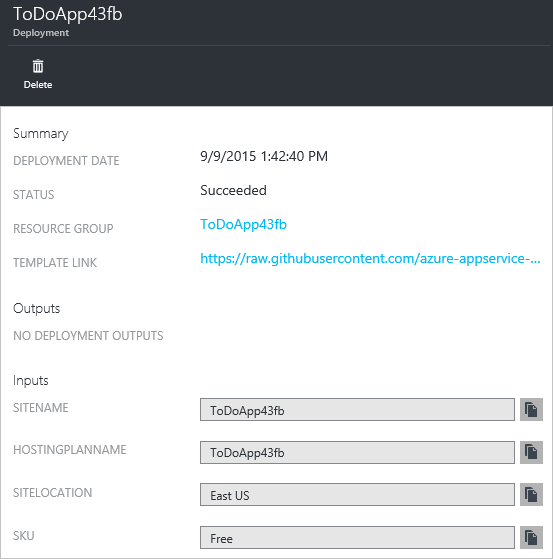
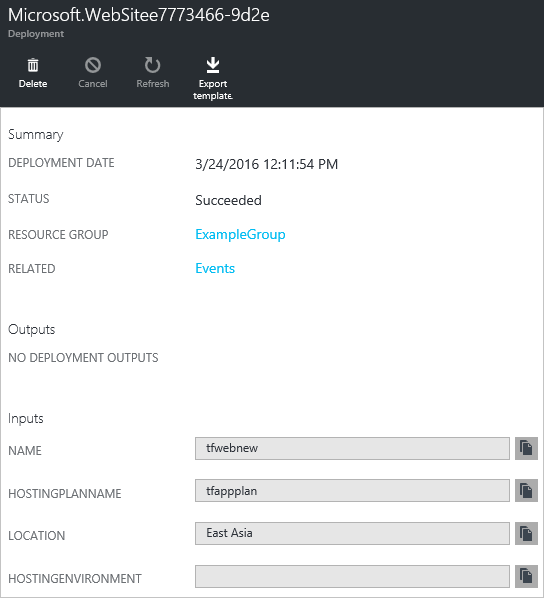
added export template to ARM portal

diff --git a/articles/azure-portal/resource-group-portal.md b/articles/azure-portal/resource-group-portal.md
@@ -1,10 +1,10 @@
 <properties 
 	pageTitle="Use Azure portal to manage Azure resources | Microsoft Azure" 
-	description="Group multiple resources as a logical group that becomes the lifecycle boundary for resources contained within it." 
+	description="Use Azure portal and Azure Resource Manage to deploy and manage your resources. Shows how to tag resources and view audit logs." 
 	services="azure-resource-manager,azure-portal" 
 	documentationCenter="" 
 	authors="tfitzmac" 
-	manager="wpickett" 
+	manager="timlt" 
 	editor=""/>
 
 <tags 
@@ -13,29 +13,26 @@
 	ms.tgt_pltfrm="na" 
 	ms.devlang="na" 
 	ms.topic="get-started-article" 
-	ms.date="02/11/2016" 
+	ms.date="03/24/2016" 
 	ms.author="tomfitz"/>
 
 
-# Using the Azure Portal to manage your Azure resources
+# Using the Azure Portal to deploy and manage your Azure resources
 
 ## Introduction
 
-Azure Resource Manager enables you to deploy and manage your solutions through resource groups. This topic provides an overview of how to use resource groups within the Azure portal. Typically, a resource group contains
-resources related to a specific application. For example, a group may contain a web app that hosts your public website, a SQL Database that stores relational data used
-by the site, and a Storage account that stores non-relational assets. Every resource in a resource group should share the same lifecycle. For more information about
-Resource Manager, see [Resource Manager overview](../resource-group-overview.md).
+This topic shows how to use the [Azure portal](https://portal.azure.com) with [Azure Resource Manager](../resource-group-overview.md) to deploy and manage your Azure resources.
 
 Currently, not every service supports the portal or Resource Manager. For those services, you will need to use
 the [classic portal](https://manage.windowsazure.com). For the status of each service, see [Azure portal availability chart](https://azure.microsoft.com/features/azure-portal/availability/).
 
 You can also manage resources through Azure PowerShell and Azure CLI. For more information about using those interfaces, see [Using Azure PowerShell with Azure Resource Manager](../powershell-azure-resource-manager.md) and
-[Use the Azure CLI for Mac, Linux, and Windows with Azure Resource Manager](../xplat-cli-azure-resource-manager.md).
+[Use the Azure CLI for Mac, Linux, and Windows with Azure Resource Manager](../xplat-cli-azure-resource-manager.md). For more information about deploying solutions through Visual Studio,
+see [Creating and deploying Azure resource groups through Visual Studio](../vs-azure-tools-resource-groups-deployment-projects-create-deploy.md).
 
+## Create resource group
 
-## Create resource group and resources
-
-If you need to create an empty resource group, you can select **New**, **Management**, and **Resource Group**.
+To create an empty resource group, select **New**, **Management**, and **Resource Group**.
 
 ![create empty resource group](./media/resource-group-portal/create-empty-group.png)
 
@@ -43,13 +40,28 @@ You give it a name and location, and, if necessary, select a subscription.
 
 ![set group values](./media/resource-group-portal/set-group-properties.png)
 
-When deploying your resources, you can choose to deploy them to the resource group you created. The following image shows how to create a new web app in an existing resource group.
+## Deploy resources
+
+After your resource group has been created, you can deploy resources to it. To start deployment, simply select **New** and the type of resource you would like to deploy.
+
+![deploy resource](./media/resource-group-portal/deploy-resource.png)
+
+If you do not see the type of resource you would like to deploy, you can search the marketplace for it.
+
+![search marketplace](./media/resource-group-portal/search-resource.png)
+
+Depending on the type of resource you have selected, you will have a collection of relevant properties to set before deployment. Those options are not shown here, as they vary based on resource type.
+For all types, you must select a destination resource group. The following image shows how to create a new web app and deploy it to the resource group you just created.
 
 ![create resource group](./media/resource-group-portal/select-existing-group.png)
 
 Alternatively, you can decide to create a new resource group when deploying your resources. Instead of selecting one of the existing resource groups in your subscription, select **New** and give the resource group a name.
 
 ![create new resource group](./media/resource-group-portal/select-new-group.png)
+
+Your deployment will begin. This could take a few minutes. When the deployment has finished, you will see a notification.
+
+![view notification](./media/resource-group-portal/view-notification.png)
 
 ## Browse resource groups
 
@@ -61,41 +73,38 @@ When you select a particular resource group, you see a resource group blade that
 
 ![resource group summary](./media/resource-group-portal/group-summary.png)
 
-The resource group blade also gives you a unified view of your billing and monitoring information for all the resources in the resource group.
+You can add more graphs and tables to the resource group blade by selecting **Add a section** below the summary.
 
-![monitoring and billing](./media/resource-group-portal/monitoring-billing.png)
+![add section](./media/resource-group-portal/add-section.png)
 
-## View your subscription and costs
+You are presented with a tile gallery to select the information you would like to include in the blade. The types of tiles that are displayed are filtered by the resource type. Selecting a different resource will
+change the available tiles.
 
-You can view information about your subscription and the rolled-up costs for all of your resources. Select **Subscriptions** and the subscription you want to see. You might only have one subscription to select.
+![add section](./media/resource-group-portal/tile-gallery.png)
 
-![subscription](./media/resource-group-portal/select-subscription.png)
+Drag the tile you need into the available spaces.
 
-Within the subscription blade, you will see a burn rate.
+![drag tile](./media/resource-group-portal/drag-tile.png)
 
-![burn rate](./media/resource-group-portal/burn-rate.png)
+After selecting **Done** at the top of the portal, your new view is part of the blade.
 
-And, a breakdown of costs by resource type.
+![show tile](./media/resource-group-portal/show-lens.png)
 
-![resource cost](./media/resource-group-portal/cost-by-resource.png)
-
-## Customizing the interface
-
-For quick access to the resource group summary, you can pin the blade to your Startboard.
+For quick access to a resource group, you can pin the blade to your dashboard.
 
 ![pin resource group](./media/resource-group-portal/pin-group.png)
 
-Or, you can pin a section of the blade to your Startboard by selecting the ellipsis (...) above the section. You can also customize the size the section in the blade or remove it completely. The following image shows how to pin, customize, or remove the Events section.
+Or, you can pin a section of the blade to your dashboard by selecting the ellipsis (...) above the section. You can also customize the size the section in the blade or remove it completely. The following image shows how to pin, customize, or remove the CPU and Memory section.
 
-![pin section](./media/resource-group-portal/pin-section.png)
+![pin section](./media/resource-group-portal/pin-cpu-section.png)
 
-After pinning the Events section to the Startboard, you will see a summary of events on the Startboard.
+After pinning the section to the dashboard, you will see the summary on the dashboard.
 
-![events startboard](./media/resource-group-portal/events-startboard.png)
+![view dashboard](./media/resource-group-portal/view-startboard.png)
 
-And, selecting it immediately takes you to more details about the events.
+And, selecting it immediately takes you to more details about the data.
 
-## Viewing past deployments
+## View past deployments
 
 From within the resource group blade, you can see the date and status of the last deployment for this resource group. Selecting the link, displays a history of deployments for the group.
 
@@ -109,11 +118,21 @@ You can see the individual operations that were executed during the deployment. 
 
 ![operation details](./media/resource-group-portal/operation-details.png)
 
-Selecting any of the operations shows more details about the operation. This can be especially helpful when an operation has failed, as shown below. It can help you troubleshoot why a deployment failed. In the following image, you can see that the web site was not deployed because the name was not unique.
+For more information about troubleshooting a deployment, see [Troubleshooting resource group deployments with Azure Portal](../resource-manager-troubleshoot-deployments-portal.md).
 
-![operation message](./media/resource-group-portal/operation-message.png)
+You can retrieve the template that was used for the deployment by selecting **Export template**.
 
-## Viewing audit logs
+![export template](./media/resource-group-portal/export-template.png)
+
+You will see the exact template used for this deployment.
+
+![show template](./media/resource-group-portal/show-template.png)
+
+It is not a complete representation of the resource group; if you added or deleted resources outside of this deployment, those actions are not reflected in the template.
+The blade includes the template, a parameter file to use with the template, and a PowerShell script to deploy the template. You can download these 3 files by selecting 
+**Save to file**.
+
+## View audit logs
 
 The audit log contains not just deployment operations, but all management operations taken on resources in your subscription. For example, you can see in the audit logs when someone in your organization stopped an app. To see the audit logs, select **Browse All** and **Audit Logs**.
 
@@ -125,15 +144,9 @@ In the operations section, you can see the individual operations that have been 
 
 By selecting any of the operations, you can see greater details, including which user executed the operation.
 
-You can filter what is shown in the audit log, by selecting **Filter**.
+For more information about viewing the audit logs, see [Audit operations with Resource Manager](../resource-group-audit.md).
 
-![filter log](./media/resource-group-portal/filter-logs.png)
-
-You can select what type of operations to show, such belonging to a resource group or resource, within a specified time span, initiated by a particular caller, or the levels of operation.
-
-![filter options](./media/resource-group-portal/filter-options.png)
-
-## Adding resources to resource groups
+## Add resources to resource groups
 
 You can add resources to a resource group using the **Add** command on the resource group blade.
 
@@ -147,11 +160,11 @@ Since resource groups allow you to manage the lifecycle of all the contained res
 
 ![delete group](./media/resource-group-portal/delete-group.png)
 
-## Tagging resources
+## Tag resources
 
 You can apply tags to resource groups and resources to logically organize your assets. For information about working with tags through the portal, see [Using tags to organize your Azure resources](../resource-group-using-tags.md).
 
-## Deploying a custom template
+## Deploy a custom template
 
 If you want to execute a deployment but not use any of the templates in the Marketplace, you can create customized template that defines the infrastructure for your solution. For more information about templates, see [Authoring Azure Resource Manager templates](../resource-group-authoring-templates.md).
 
@@ -167,8 +180,21 @@ After launching the template deployment, you can create the custom template and 
 
 ![create template](./media/resource-group-portal/show-custom-template.png)
 
+## View your subscription and costs
+
+You can view information about your subscription and the rolled-up costs for all of your resources. Select **Subscriptions** and the subscription you want to see. You might only have one subscription to select.
+
+![subscription](./media/resource-group-portal/select-subscription.png)
+
+Within the subscription blade, you will see a burn rate.
+
+![burn rate](./media/resource-group-portal/burn-rate.png)
+
+And, a breakdown of costs by resource type.
+
+![resource cost](./media/resource-group-portal/cost-by-resource.png)
+
 ## Next Steps
-Getting Started
 
 - For an introduction to the concepts in Resource Manager, see [Azure Resource Manager Overview](../resource-group-overview.md).
 - For an introduction to using Azure PowerShell when deploying resources, see [Using Azure PowerShell with Azure Resource Manager](../powershell-azure-resource-manager.md).
